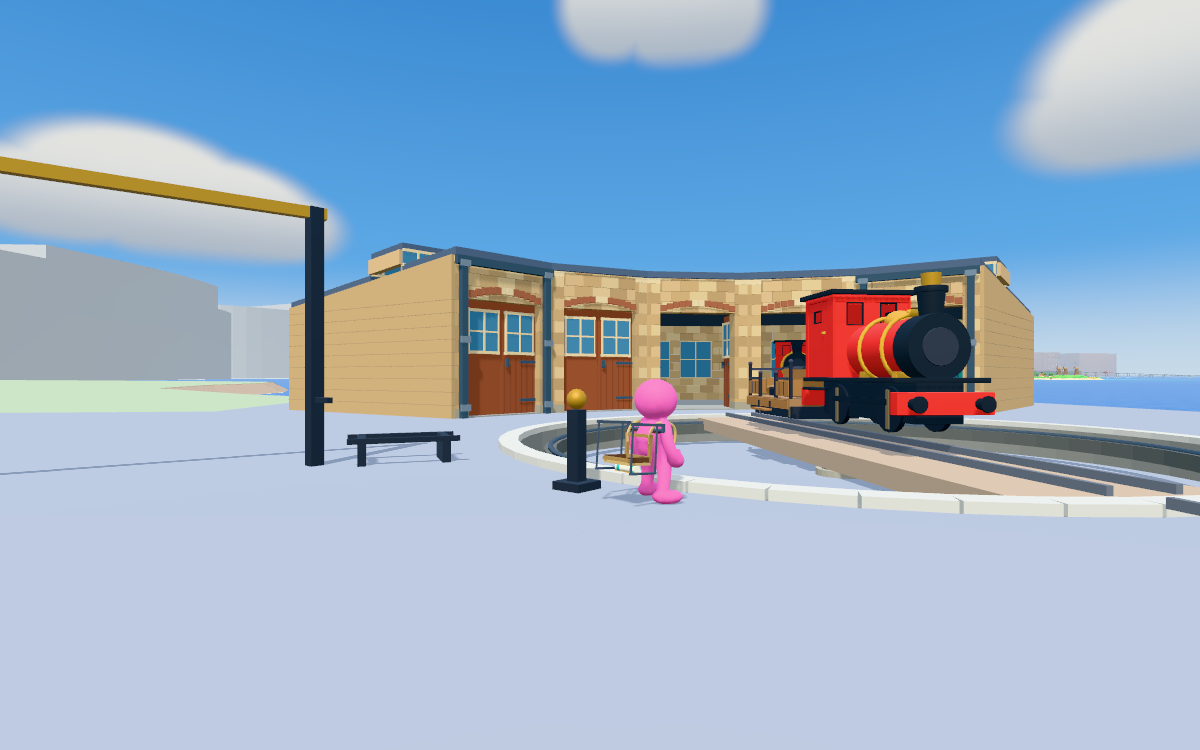
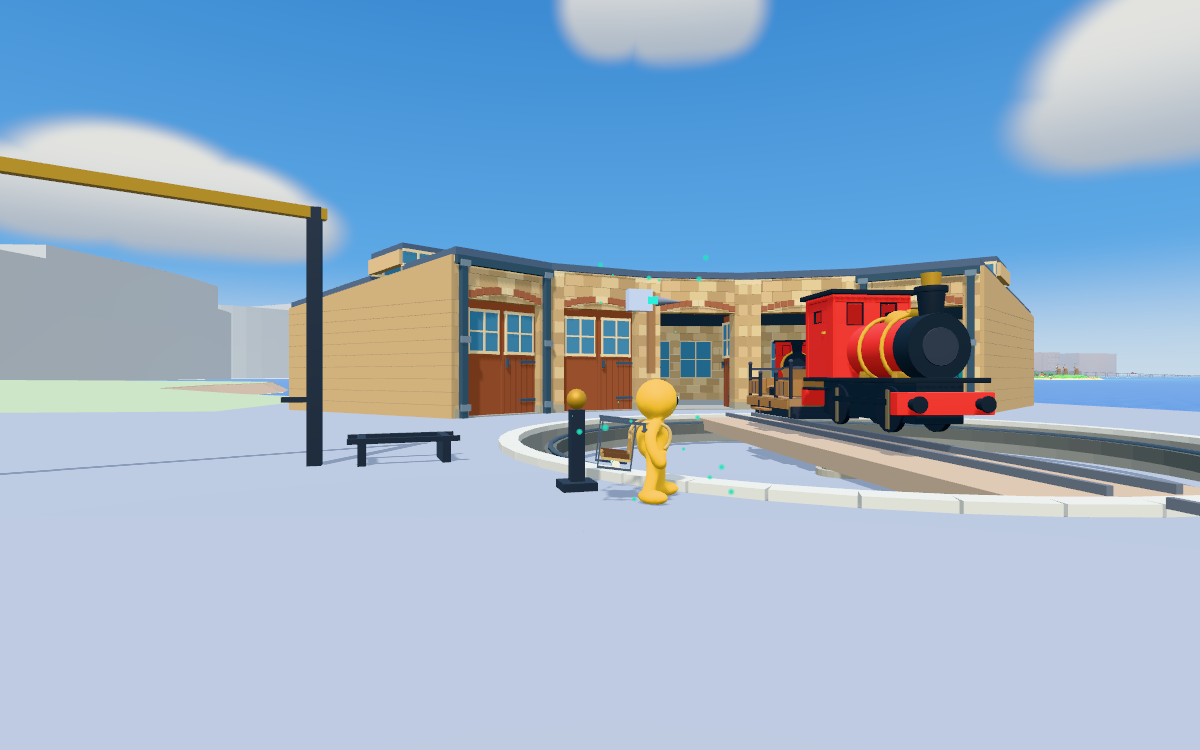
Dispose private garage materials and turn the quay crank and foot

Changed region(s): [[0.4625, 0.368, 0.5858, 0.6747], [0.2158, 0.276, 0.2775, 0.6133]]

diff --git a/test/garage-selection.test.ts b/test/garage-selection.test.ts
@@ -7,6 +7,10 @@ import fs from 'node:fs';
 import * as THREE from 'three/webgpu';
 import { sourceModule } from '../dev/level/source.ts';
 import { createGarageSelection, type Focus } from '../src/entities/railway/garage-selection.ts';
+import * as layout from '../src/entities/railway/garage-geo.ts';
+import * as cars from '../src/entities/railway/cars.ts';
+import * as engine from '../src/entities/railway/engine.ts';
+import { ROTUNDA_PORT_QUAY } from '../src/place/port-quay.ts';
 
 // The real owner, as written (src/render/owned-view.ts), without the physics engine it imports: no body is made here.
 const { createOwnedView } = sourceModule<typeof import('../src/render/owned-view.ts')>(
@@ -19,6 +23,72 @@ const disposed = (thing: THREE.EventDispatcher<{ dispose: object }>) => {
   thing.addEventListener('dispose', () => (gone = true));
   return () => gone;
 };
+
+// Exercise the real mount and owner with the unrelated rotunda and GLB artwork left out.
+const kit = { enginePart: () => new THREE.Mesh(), engineDoor: () => new THREE.Mesh() };
+const { createGaragePieces } = sourceModule<typeof import('../src/entities/railway/garage-pieces.ts')>(
+  fs.readFileSync('src/entities/railway/garage-pieces.ts', 'utf8'),
+  {
+    THREE,
+    ...layout,
+    ...cars,
+    ...engine,
+    kit,
+    passengerCar: () => new THREE.Group(),
+    paint: () => new THREE.MeshBasicMaterial(),
+  },
+);
+const { mountQuayRoundhouse } = sourceModule<typeof import('../src/entities/route-greybox/quay-roundhouse.ts')>(
+  fs.readFileSync('src/entities/route-greybox/quay-roundhouse.ts', 'utf8'),
+  {
+    ...layout,
+    site: ROTUNDA_PORT_QUAY,
+    kit,
+    level: {},
+    createGaragePieces,
+    railwayWorldRead: () => null,
+    createRotundaView: () => ({ show() {}, copies() {} }),
+  },
+);
+
+test('unmounting the quay releases the visible post material exactly once', () => {
+  const owner = createOwnedView();
+  mountQuayRoundhouse(owner);
+  const body = owner.root.getObjectByName('garage-post-body');
+  assert.ok(body instanceof THREE.Mesh && body.visible);
+  let count = 0;
+  body.material.addEventListener('dispose', () => count++);
+  owner.dispose();
+  assert.equal(count, 1);
+});
+
+test('the quay mast crank and post foot turn 125 degrees from their Home orientation', () => {
+  function orientation(site: 0 | 1) {
+    const owner = createOwnedView();
+    const { geo, table, y } = layout.garageRow(site);
+    if (site === 1) mountQuayRoundhouse(owner);
+    else createGaragePieces(owner, { table, y, ground: y, post: layout.polarAt(table, geo.post) }, geo);
+    const axis = new THREE.Vector3(1, 0, 0);
+    const foot = owner.root.getObjectByName('garage-post-foot');
+    assert.ok(foot);
+    const footAxis = axis.clone().applyQuaternion(foot.getWorldQuaternion(new THREE.Quaternion()));
+    const crank = owner.root.getObjectByName('jib-crank');
+    assert.ok(crank);
+    const direction = crank
+      .getWorldPosition(new THREE.Vector3())
+      .sub(crank.parent!.getWorldPosition(new THREE.Vector3()));
+    direction.y = 0;
+    owner.dispose();
+    return [direction.normalize(), footAxis];
+  }
+  const home = orientation(0),
+    quay = orientation(1);
+  home.forEach((direction, i) => {
+    assert.ok(direction.distanceTo(new THREE.Vector3(1, 0, 0)) < 1e-9);
+    const expected = direction.applyAxisAngle(new THREE.Vector3(0, 1, 0), (-125 * Math.PI) / 180);
+    assert.ok(expected.distanceTo(quay[i]!) < 1e-9);
+  });
+});
 
 test('stepping through the tabs draws a frame and a ghost car, and disposing the view retains nothing', () => {
   const owner = createOwnedView();

diff --git a/src/entities/railway/garage-pieces.ts b/src/entities/railway/garage-pieces.ts
@@ -29,15 +29,18 @@ export function createGaragePieces(owner: OwnedView, geo: Geo, row: GarageGeo) {
   const brass = new THREE.MeshStandardNodeMaterial({ color: '#d9a23a', roughness: 0.45, metalness: 0.5 });
   const post = new THREE.Group();
   const postBody = new THREE.Mesh(new THREE.BoxGeometry(0.2, 1.15, 0.2), iron);
+  postBody.name = 'garage-post-body';
   postBody.position.y = 0.575;
   // The knob says where the install stands: brass, orange while a part waits, green once fitted.
   const knobMat = brass.clone();
   const postKnob = new THREE.Mesh(new THREE.SphereGeometry(0.15, 12, 8), knobMat);
   postKnob.position.y = 1.3;
   const postFoot = new THREE.Mesh(new THREE.BoxGeometry(0.5, 0.12, 0.5), iron);
+  postFoot.name = 'garage-post-foot';
   postFoot.position.y = 0.06;
   post.add(postBody, postKnob, postFoot);
   post.position.set(geo.post.x, geo.ground, geo.post.z);
+  post.rotation.y = -rad(row.turn);
   for (const m of [postBody, postKnob, postFoot]) m.castShadow = true;
   owner.add(post);
 
@@ -107,6 +110,9 @@ export function createGaragePieces(owner: OwnedView, geo: Geo, row: GarageGeo) {
     polygonOffsetUnits: 8,
   });
   const ghost = new THREE.Group();
+  owner.cleanup(() => {
+    for (const material of [iron, brass, knobMat, wheelMat, spokeMat, ghostMat]) material.dispose();
+  });
   for (const m of longSet) {
     const g = new THREE.Mesh(m.geometry, ghostMat);
     g.renderOrder = 2;
@@ -178,11 +184,13 @@ export function createGaragePieces(owner: OwnedView, geo: Geo, row: GarageGeo) {
   const arm = new THREE.Mesh(new THREE.BoxGeometry(0.18, 0.2, row.arm), brass); // along +z, pivoting at the post
   arm.position.set(0, row.mast - 0.1, row.arm / 2 - 0.2);
   const crank = new THREE.Mesh(new THREE.BoxGeometry(0.5, 0.1, 0.1), iron);
+  crank.name = 'jib-crank';
   crank.position.set(0.3, 1.2, 0);
   const trolley = new THREE.Mesh(new THREE.BoxGeometry(0.3, 0.16, 0.3), iron);
   const chain = new THREE.Mesh(new THREE.BoxGeometry(0.04, 1, 0.04), iron);
   jib.add(jibPost, arm, crank);
   jib.position.set(jibAt.x, geo.ground, jibAt.z);
+  jib.rotation.y = post.rotation.y;
   const armPivot = new THREE.Group();
   armPivot.position.set(jibAt.x, geo.ground, jibAt.z);
   armPivot.add(arm);

diff --git a/src/entities/railway/garage-geo.ts b/src/entities/railway/garage-geo.ts
@@ -9,6 +9,8 @@ import { ORIGIN } from '../../place/layout.ts';
 export type XZ = { x: number; z: number };
 export type Polar = { bearing: number; r: number };
 export type GarageGeo = {
+  /** Clockwise rotation of the fixed pieces from Home, in degrees. */
+  turn: number;
   /** The lever post that opens the garage. */
   post: Polar;
   /** The jib's mast, its height, and the length of its arm (it must reach the engine's seat past the table's centre,
@@ -40,6 +42,7 @@ export const STAND_LEGS = { at: [9.9, 11.4], half: 0.5 } as const;
 /** The garage's radial arrangement at bearing 85° keeps the stand outside the deck's sweep and clear of the
  * jump-in landing, with the jib and crew behind it (docs/plans/home-flip.md, F1). */
 export const GARAGE_GEO: GarageGeo = {
+  turn: 0,
   post: { bearing: 60, r: 9.4 },
   jib: { bearing: 85, r: 12.2 },
   mast: 4.4,
@@ -59,6 +62,7 @@ export function turnGeo(row: GarageGeo, degrees: number): GarageGeo {
   const turn = (p: Polar) => ({ ...p, bearing: p.bearing + degrees });
   return {
     ...row,
+    turn: row.turn + degrees,
     post: turn(row.post),
     jib: turn(row.jib),
     stand: turn(row.stand),
